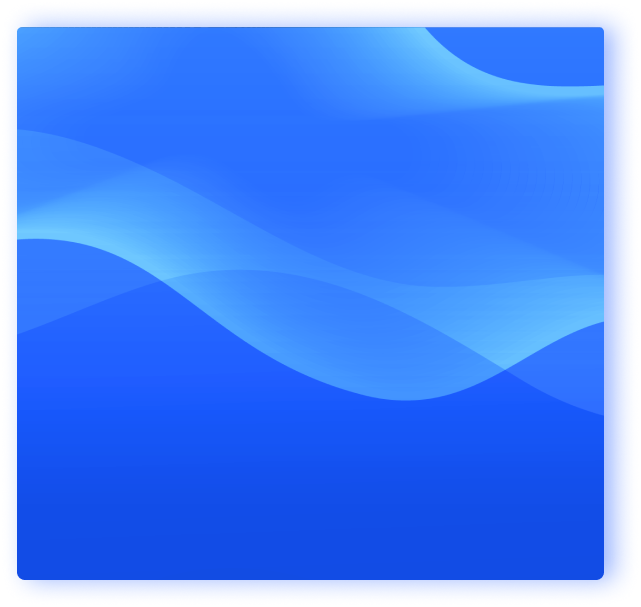
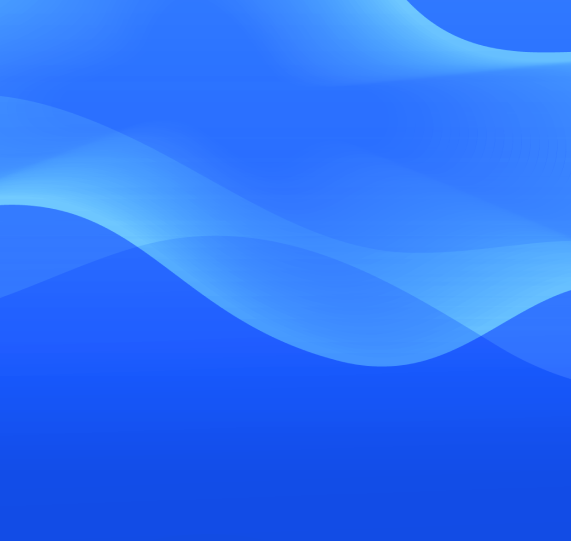
image update, animation added

diff --git a/style.css b/style.css
@@ -13,19 +13,20 @@ body {
     background-color: white;
     position: absolute;
     top: 76px;
-    height: 790px;
-    width: 560px;
-    left: 950px;
+    height: 775px;
+    width: 600px;
+    left: 920px;
     border-radius: 10px;
+    transition: 2s left;
 }
 
 .welcome {
     position: absolute;
-    font-family: 'proxima-nova', sans-serif;
     width: 151px;
     height: 36px;
     left: 120px;
     top: 105px;
+    font-family: 'proxima-nova', sans-serif;
     font-style: normal;
     font-weight: 600;
     font-size: 36px;
@@ -61,6 +62,17 @@ body {
     box-shadow: -1px -1px 4px rgba(0, 83, 255, 0.07), 2px 2px 4px 2px rgba(0, 83, 255, 0.07);
 }
 
+#indicator1,
+#indicator2,
+#indicator3 {
+    background-color: #0dbde6;
+    position: absolute;
+    height: 63px;
+    width: 5px;
+    border-radius: 1px 1px 1px 1px;
+    display: none;
+}
+
 label {
     position: absolute;
     top: 23px;
@@ -76,7 +88,6 @@ input {
     position: absolute;
     width: 361px;
     height: 63px;
-    /* box-shadow: -1px -1px 4px rgba(0, 83, 255, 0.07), 2px 2px 4px 2px rgba(0, 83, 255, 0.07); */
     border-radius: 0px 1px 1px 0px;
     background: #EFF6F9;
     outline: none;
@@ -90,7 +101,7 @@ input:invalid {
 }
 
 input:focus,
-input:valid {
+input:valid:target {
     border-color: #F9FDFF;
     box-shadow: -1px -1px 4px rgba(0, 83, 255, 0.07), 2px 2px 4px 2px rgba(0, 83, 255, 0.07);
     border-radius: 0px 1px 1px 0px;
@@ -110,7 +121,6 @@ input:valid~label {
     left: 120px;
     width: 361px;
     height: 63px;
-    box-shadow: -1px -1px 4px rgba(0, 83, 255, 0.07), 2px 2px 4px 2px rgba(0, 83, 255, 0.07);
 }
 
 .input-field-password {
@@ -119,7 +129,6 @@ input:valid~label {
     left: 120px;
     width: 361px;
     height: 63px;
-    box-shadow: -1px -1px 4px rgba(0, 83, 255, 0.07), 2px 2px 4px 2px rgba(0, 83, 255, 0.07);
 }
 
 .button {
@@ -161,11 +170,13 @@ input:valid~label {
 .blue_box {
     background-image: url(image/blue_box.png);
     position: absolute;
-    top: 182px;
-    height: 557px;
+    background-size: 100% 100%;
+    top: 150px;
+    height: 610px;
     width: 630px;
-    left: 400px;
+    left: 380px;
     border-radius: 10px;
+    transition: 2s left;
 }
 
 
@@ -219,7 +230,6 @@ ul {
     width: 550px;
     min-height: 180px;
     top: 100px;
-    /* text-align: center; */
 }
 
 .slider-container h2 {
@@ -228,15 +238,11 @@ ul {
 
 .slider-container p {
     margin: 40px 25px;
-    /* font-weight: semi-bold; */
     line-height: 150%;
     font-family: 'proxima-nova', sans-serif;
     font-size: 55px;
     color: #fff;
 }
-
-
-/*** target hooks ****/
 
 @-webkit-keyframes slide-animation {
     0% {
@@ -309,21 +315,36 @@ ul {
     width: 421px;
 }
 
-#learn {
-    position: absolute;
-    width: 117px;
+.bttn {
+    background-color: transparent;
     height: 45px;
-    border: 1px solid #FFFF;
-    font-size: 16px;
+    border-radius: 3px;
+    width: 117px;
+    font-size: 13px;
+    line-height: 13px;
+    letter-spacing: 0.04em;
     margin-left: 20px;
+    color: white;
+    border: 1px solid #fff;
+    cursor: pointer;
+    text-decoration: none;
+    /* display: inline-block; */
+    padding-right: 30px;
 }
 
-#le {
-    position: relative;
+.arrow {
+    width: 117px;
+    height: 45px;
+    margin-left: 115px;
+    margin-top: -54px;
+    right: 100px;
+}
+
+span {
+    text-decoration: none;
+    display: inline-block;
+    font-size: 50px;
+    letter-spacing: 10px;
     color: #fff;
-    font-size: 13px;
-    font-family: 'proxima-nova', sans-serif;
-    width: 71px;
-    top: -27px;
-    left: -10px;
+    cursor: pointer;
 }

diff --git a/main.html b/main.html
@@ -7,7 +7,7 @@
 </head>
 
 <body>
-    <div class="white_box">
+    <div class="white_box" id="whiteBox">
         <div class="welcome">
             Welcome
         </div>
@@ -15,26 +15,33 @@
             Lorem ipsum dolor sit amet, consectetur adipiscing elit. Diam tincidunt morbi purus.
         </div>
         <div class="input-field">
-            <input type="text" id="name" required />
+            <input type="text" id="name" onclick="show_hide(1)" required />
+            <div id="indicator1"></div>
             <label for="name">USER NAME</label>
         </div>
+
         <div class="input-field-email">
-            <input type="email" id="email" required />
+            <input type="email" id="email" onclick="show_hide(2)" required />
+            <div id="indicator2"></div>
             <label for="email">EMAIL</label>
         </div>
+
         <div class="input-field-password">
-            <input type="password" id="password" required />
+            <input type="password" id="password" onclick="show_hide(3)" required />
+            <div id="indicator3"></div>
             <label for="password">PASSWORD</label>
         </div>
+
         <div class="btn">
             <button class="button loginbutton">LOGIN</button>
         </div>
         <div class="singup">
-            <p id="sign">Don't have account?<a href="#" id="hrf">Signup</a></p>
+            <p id="sign">Don't have account?<a href="#" id="hrf" onclick="PositionChange()">Signup</a></p>
         </div>
+
     </div>
 
-    <div class="blue_box">
+    <div class="blue_box" id="blueBox">
 
         <div id="slider">
             <ul>
@@ -42,8 +49,9 @@
                     <div class="slider-container">
                         <p>We are <b>Consilio Design</b></p>
                         <p id="lore">Lorem ipsum dolor sit amet, consectetur adipiscing elit. Diam tincidunt morbi purus.</p>
-                        <div id="learn">
-                            <p id="le">Learn More</p>
+                        <button type="button" class="bttn">Learn More</button>
+                        <div class="arrow">
+                            <span>&#8594;</span>
                         </div>
                     </div>
                 </li>
@@ -53,8 +61,9 @@
                     <div class="slider-container">
                         <p>We are <b>Consilio Design</b></p>
                         <p id="lore">Lorem ipsum dolor sit amet, consectetur adipiscing elit. Diam tincidunt morbi purus.</p>
-                        <div id="learn">
-                            <p id="le">Learn More</p>
+                        <button type="button" class="bttn">Learn More</button>
+                        <div class="arrow">
+                            <span>&#8594;</span>
                         </div>
                     </div>
                 </li>
@@ -63,8 +72,9 @@
                     <div class="slider-container">
                         <p>We are <b>Consilio Design</b></p>
                         <p id="lore">Lorem ipsum dolor sit amet, consectetur adipiscing elit. Diam tincidunt morbi purus.</p>
-                        <div id="learn">
-                            <p id="le">Learn More</p>
+                        <button type="button" class="bttn">Learn More</button>
+                        <div class="arrow">
+                            <span>&#8594;</span>
                         </div>
                     </div>
                 </li>
@@ -76,7 +86,8 @@
 
     </div>
 
-
+    <script src="main.js">
+    </script>
 
 </body>
 

diff --git a/main.js b/main.js
@@ -1,0 +1,31 @@
+function show_hide(num) {
+    if (num == 1) {
+        document.getElementById("indicator1").style.display = "block";
+        document.getElementById("indicator2").style.display = "none";
+        document.getElementById("indicator3").style.display = "none";
+    } else if (num == 2) {
+        document.getElementById("indicator1").style.display = "none";
+        document.getElementById("indicator2").style.display = "block";
+        document.getElementById("indicator3").style.display = "none";
+    } else if (num == 3) {
+        document.getElementById("indicator1").style.display = "none";
+        document.getElementById("indicator2").style.display = "none";
+        document.getElementById("indicator3").style.display = "block";
+    } else {
+        document.getElementById("indicator1").style.display = "none";
+        document.getElementById("indicator2").style.display = "none";
+        document.getElementById("indicator3").style.display = "none";
+    }
+
+    // var x = document.getElementById("indicator");
+    // if (x.style.display == "none") {
+    //     x.style.display = "block";
+    // } else {
+    //     x.style.display = "none";
+    // }
+}
+
+function PositionChange() {
+    document.getElementById("whiteBox").style.left = "375px";
+    document.getElementById("blueBox").style.left = "915px";
+}
